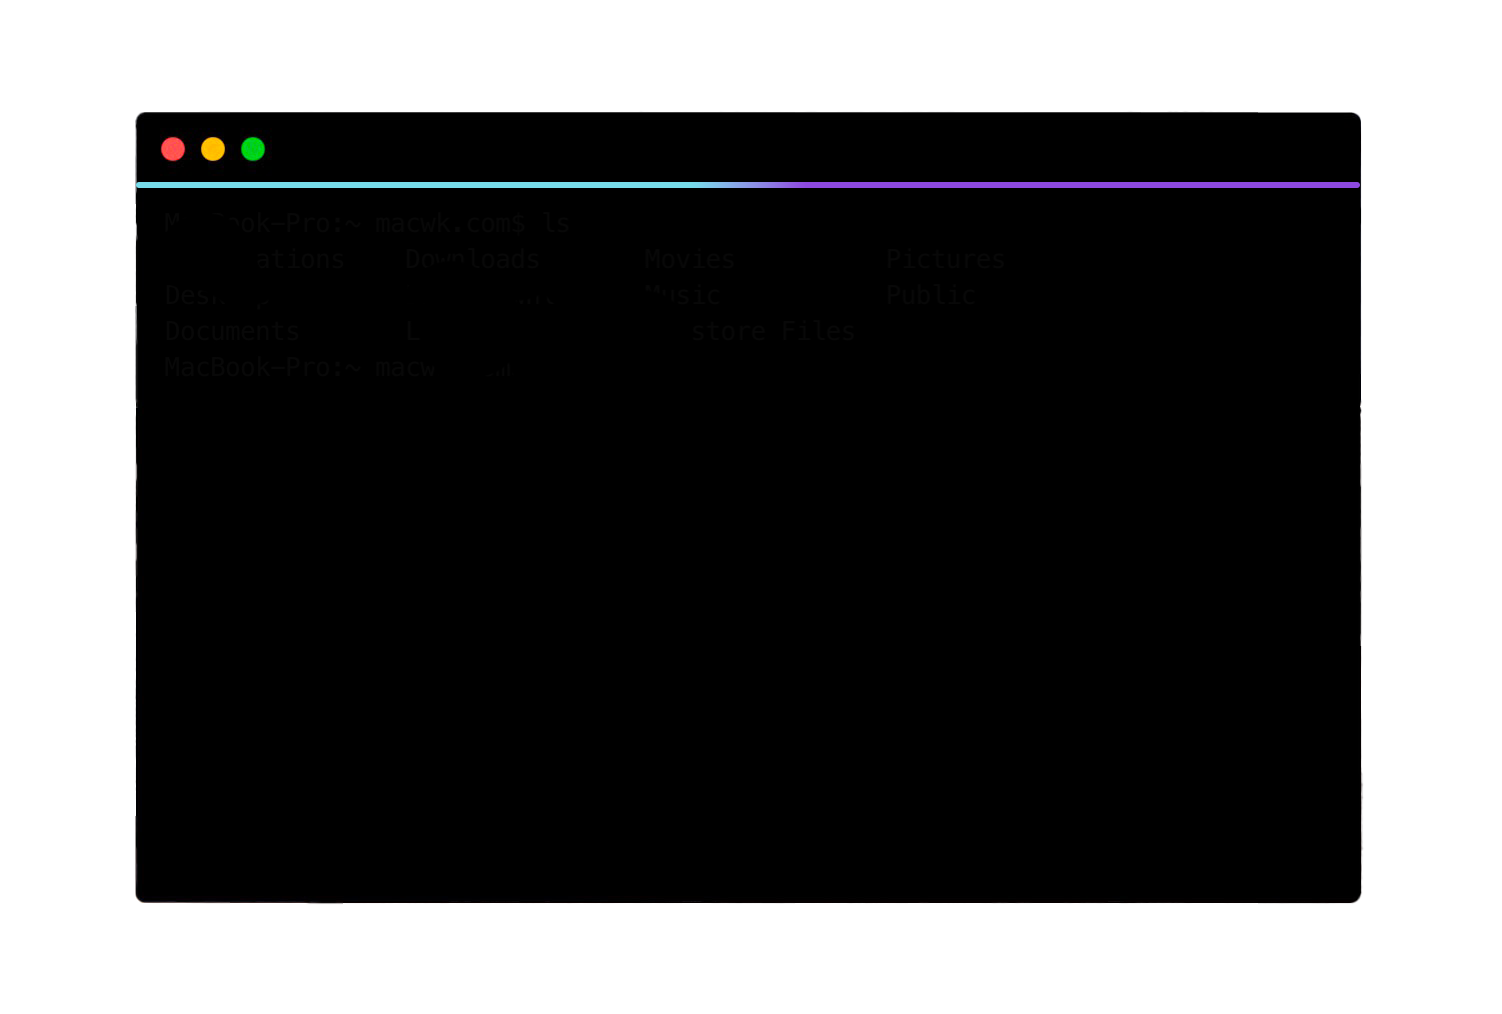
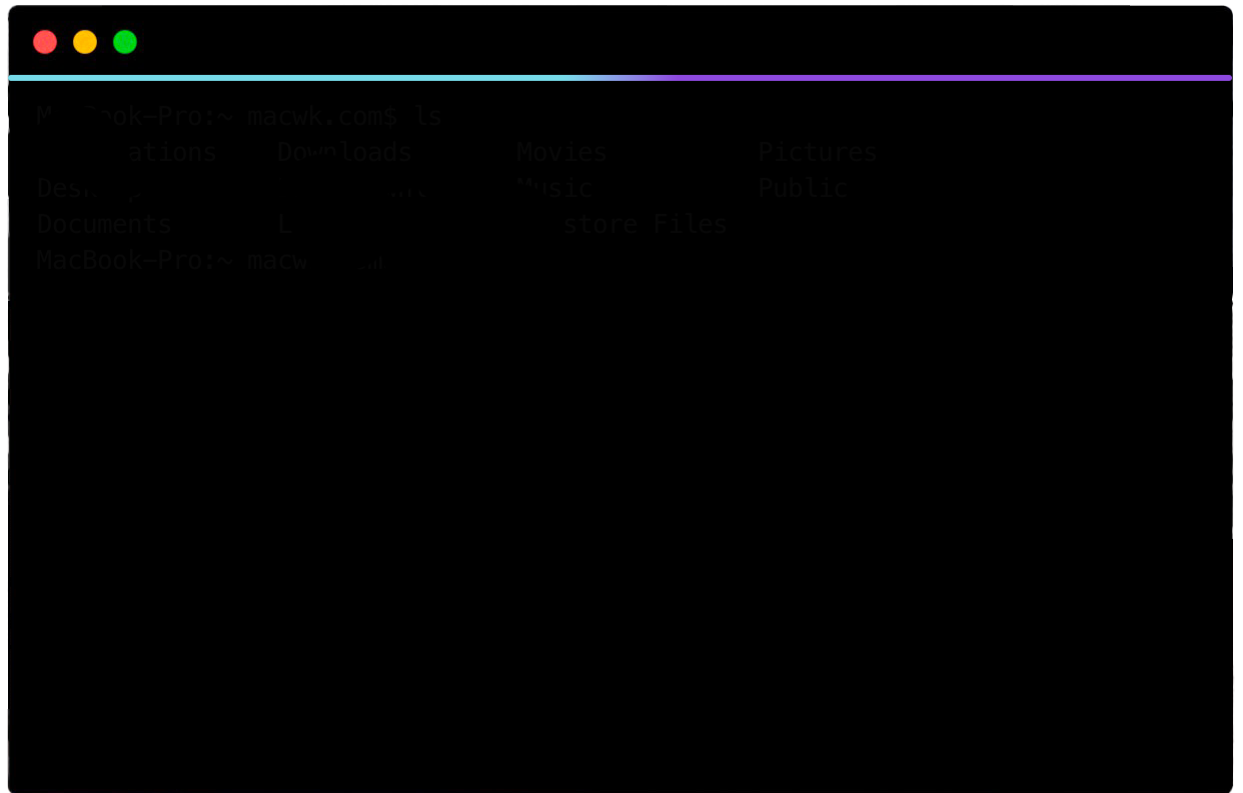
更新了login前端page

diff --git a/app/login/page.tsx b/app/login/page.tsx
@@ -6,25 +6,30 @@ export default function Login() {
       {/* 背景层 */}
       <div className="absolute inset-0 z-0">
         {/* 顶部背景 */}
-        <div className="absolute top-0 left-0 w-full h-[70%] z-0">
-          <Image src="/images/bg_top.svg" alt="bottom background" layout="fill" objectFit="cover" />
+        <div className="absolute top-0 left-0 w-full h-[75%] z-0">
+          <Image src="/images/bg_top.svg" alt="top background" layout="fill" objectFit="cover" />
         </div>
 
-        {/* 中间半透明层（确保在 `bg_top.svg` 和 `bg_but.svg` 之上） */}
-        <div className="absolute top-[30%] left-0 w-full h-[35%] z-10 opacity-100">
+        {/* 中间半透明层 */}
+        <div className="absolute top-[30%] left-0 w-full h-[45%] z-10 opacity-100">
           <Image src="/images/bg_mid.svg" alt="middle overlay" layout="fill" objectFit="cover" />
         </div>
 
         {/* 底部背景 */}
-        <div className="absolute bottom-0 left-0 w-full h-[50%] z-0">
-          <Image src="/images/bg_but.svg" alt="top background" layout="fill" objectFit="cover" />
+        <div className="absolute bottom-0 left-0 w-full h-[50%] z-0 opacity-100">
+          <Image src="/images/bg_but.svg" alt="bottom background" layout="fill" objectFit="cover" />
         </div>
       </div>
 
-      {/* 登录框 */}
-      <div className="relative w-[550px] bg-black/50 backdrop-blur-md p-12 rounded-lg shadow-xl mb-0 z-20">
-        {/* 窗口背景，确保完全覆盖 */}
-        <div className="absolute inset-0 w-full h-full z-0">
+      {/* 标题 */}
+      <div className="absolute top-10 text-white text-3xl font-bold z-20 opacity-70">
+        爱邮坪 AUP
+      </div>
+
+{/* 登录框 */}
+      <div className="relative w-[520px] bg-black/50 backdrop-blur-md p-12 rounded-lg overflow-hidden shadow-xl mb-0 z-20">
+        {/* 窗口背景图，确保完全覆盖 */}
+        <div className="absolute inset-0 w-full h-full z-0 opacity-75">
           <Image 
             src="/images/bg_wind.png" 
             alt="window background" 
@@ -34,9 +39,9 @@ export default function Login() {
         </div>
 
         {/* 登录表单 */}
-        <form className="relative z-10 space-y-4">
+        <form className="relative z-10 space-y-3 px-16 py-1 overflow-auto">
           <div>
-            <label className="text-white text-lg font-semibold">用户名:</label>
+            <label className="text-white text-2g">用户名:</label>
             <input
               type="text"
               className="w-full mt-1 px-4 py-2 border border-gray-500 rounded-md bg-gray-900 text-white placeholder-gray-400"
@@ -45,7 +50,7 @@ export default function Login() {
           </div>
 
           <div>
-            <label className="text-white text-lg font-semibold">密码:</label>
+            <label className="text-white text-2g">密码:</label>
             <input
               type="password"
               className="w-full mt-1 px-4 py-2 border border-gray-500 rounded-md bg-gray-900 text-white placeholder-gray-400"
@@ -58,7 +63,7 @@ export default function Login() {
             <label className="text-white text-sm">记住密码</label>
           </div>
 
-          <button className="w-full bg-blue-500 hover:bg-blue-600 text-white py-2 rounded-md font-bold transition">
+          <button className="w-full bg-blue-500 hover:bg-blue-600 text-white py-1 rounded-md font-bold transition">
             提交
           </button>
         </form>
